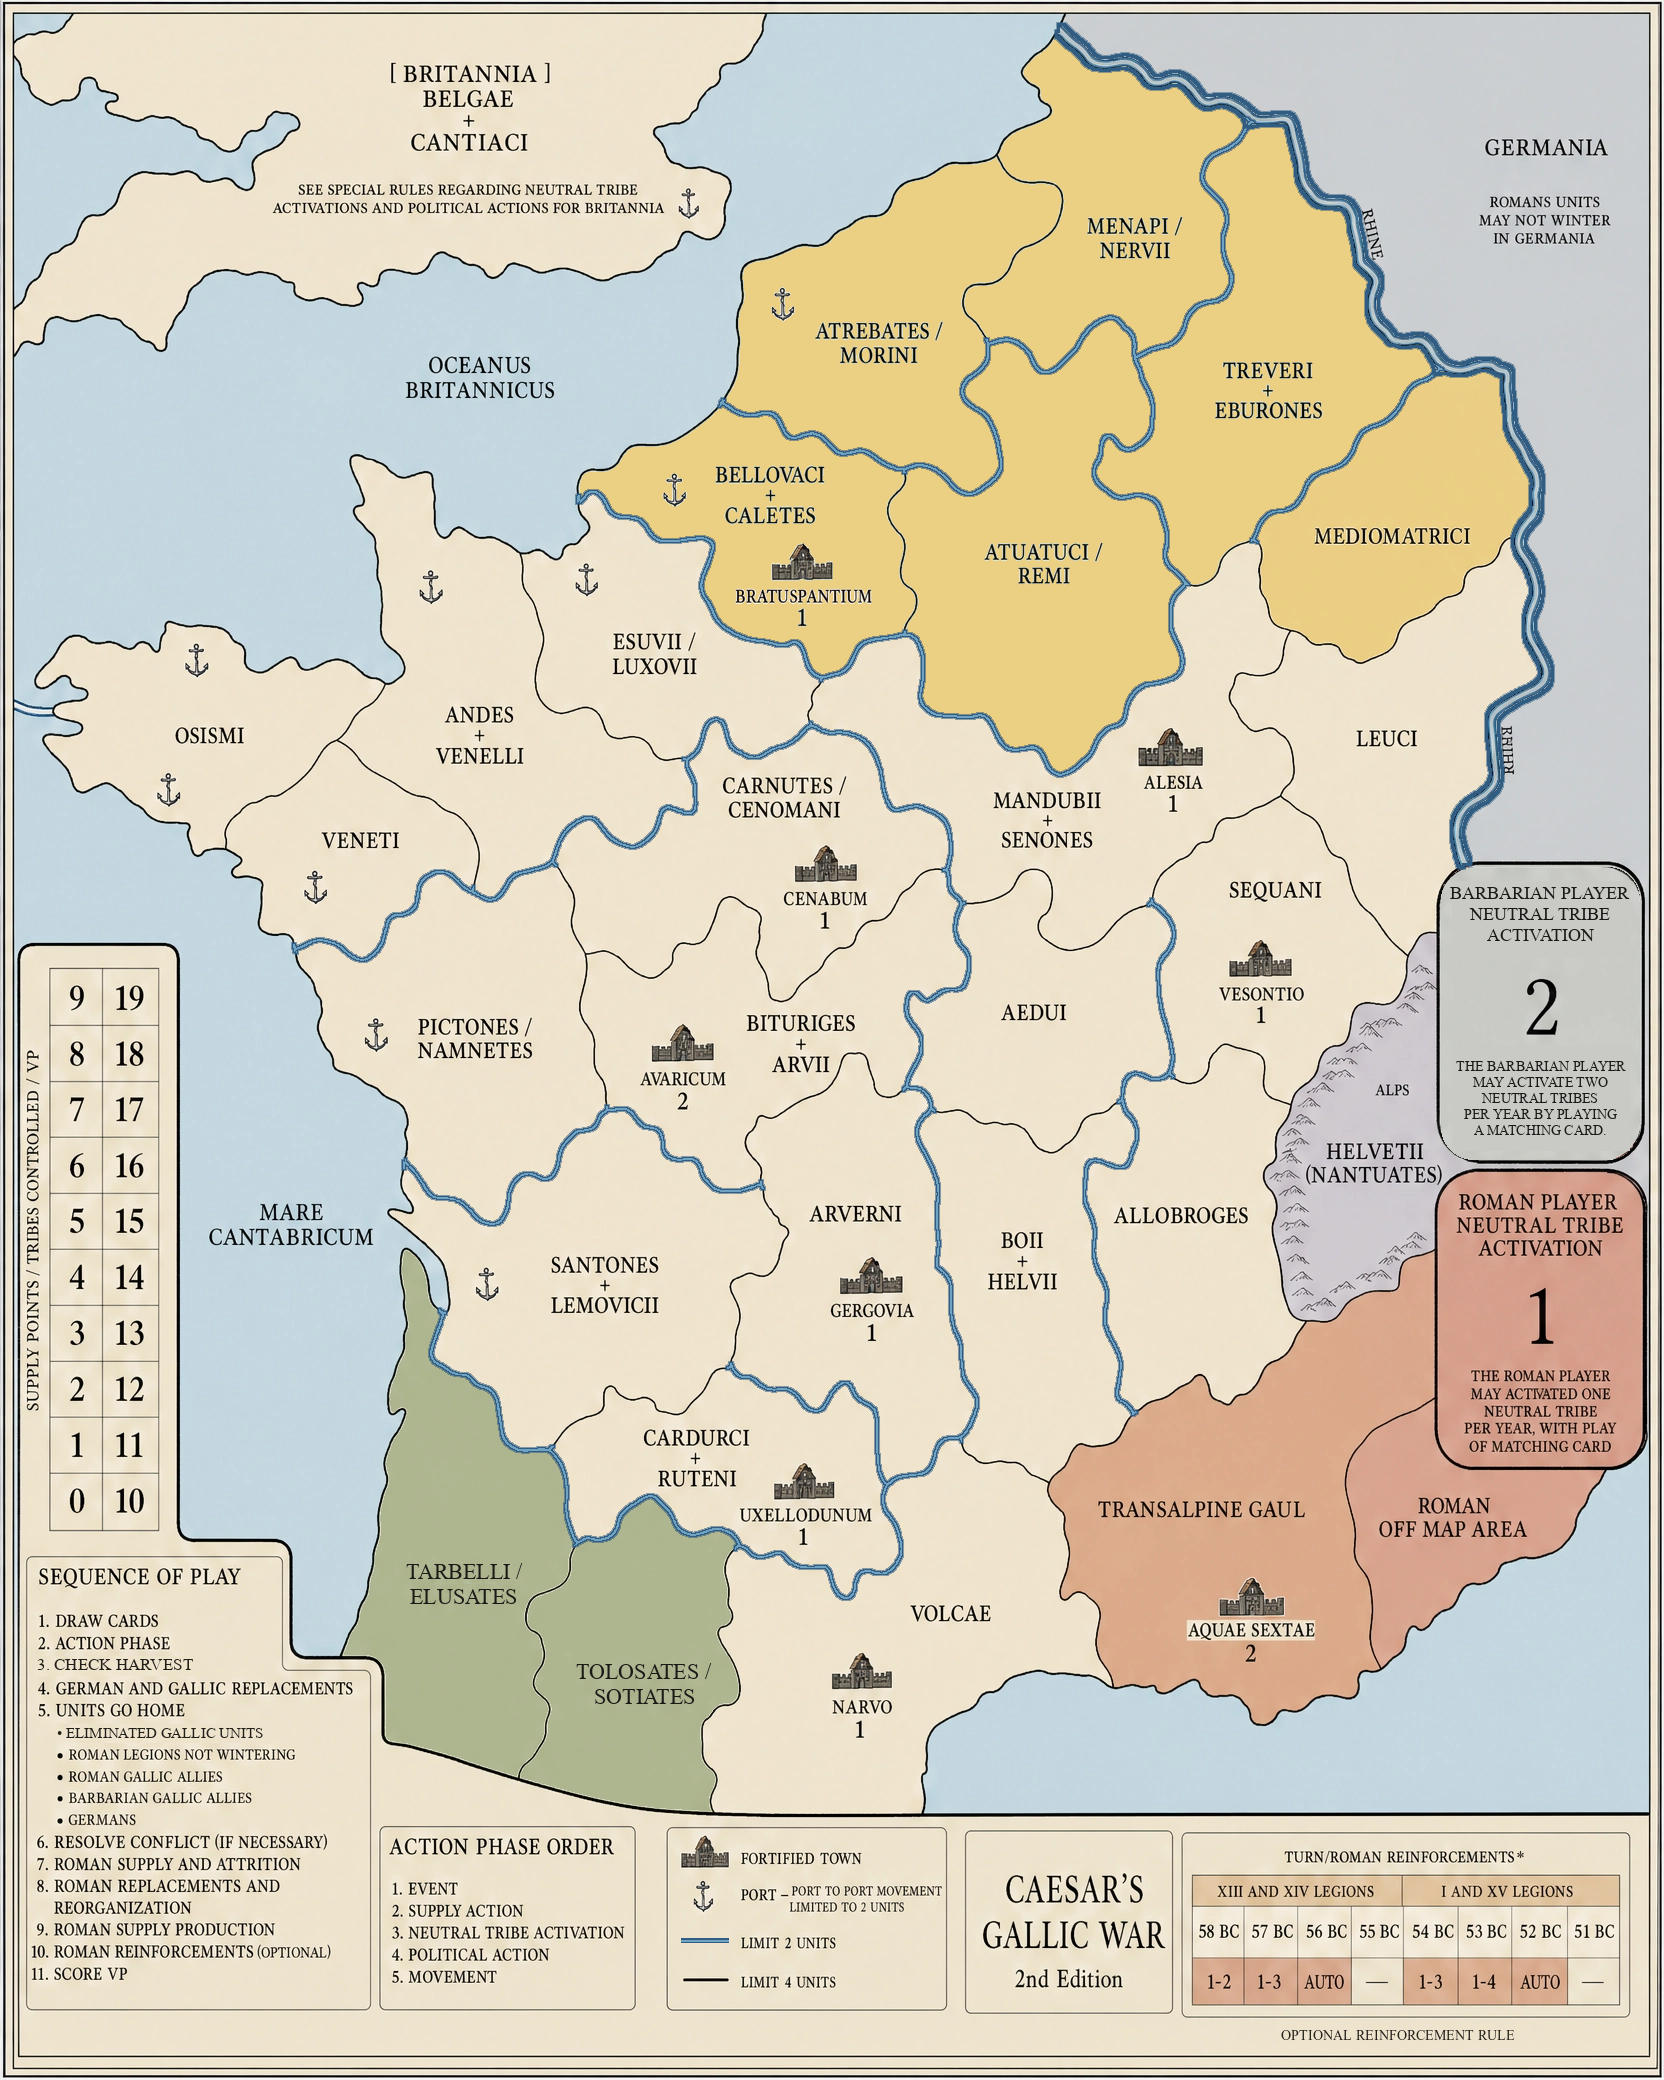
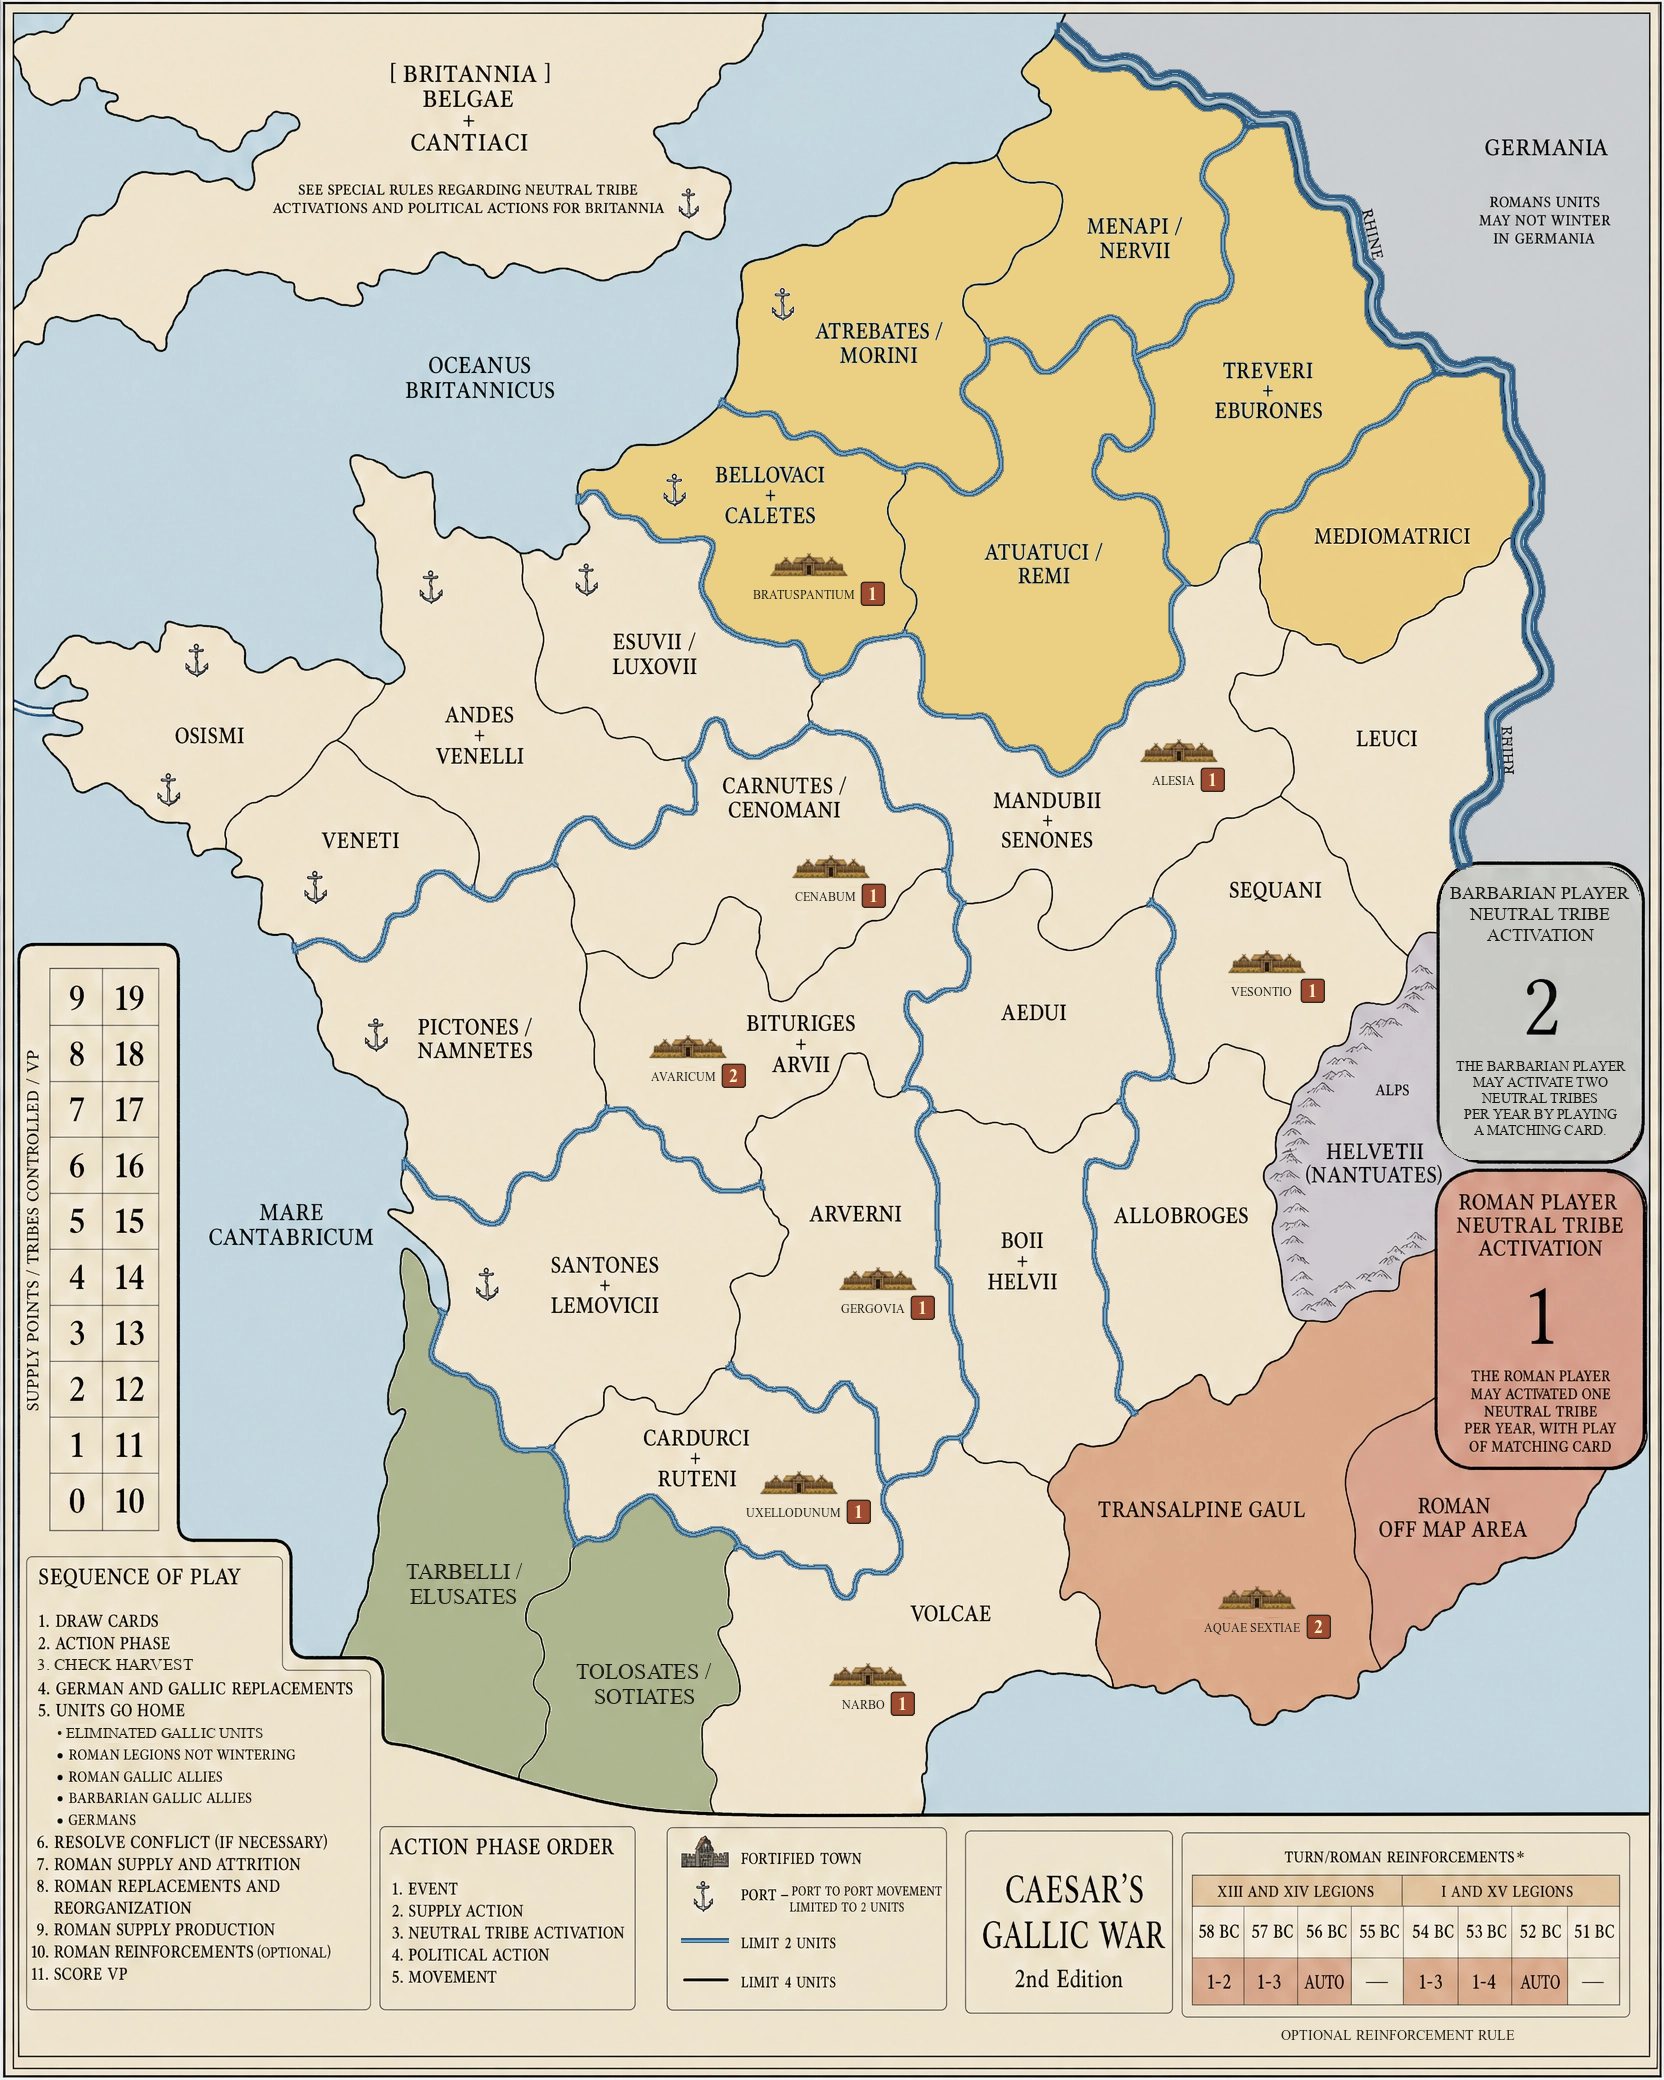
Redesign fortified town map markers

diff --git a/game/test/services/game_rules/battle_test.rb b/game/test/services/game_rules/battle_test.rb
@@ -853,7 +853,7 @@ class GameRules::BattleTest < ActiveSupport::TestCase
 
     result = GameRules::Battle.new(session: session, state: session.data, rolls: Array.new(10, 6)).resolve!
     assert_includes result.dig("battle", "fort"), "sequani"
-    assert_match "Sequani starts inside bibracte", result["log"].join(" ")
+    assert_match "Sequani starts inside vesontio", result["log"].join(" ")
 
     2.times do
       result = GameRules::Battle.new(session: session, state: result, rolls: Array.new(10, 6)).act!(
